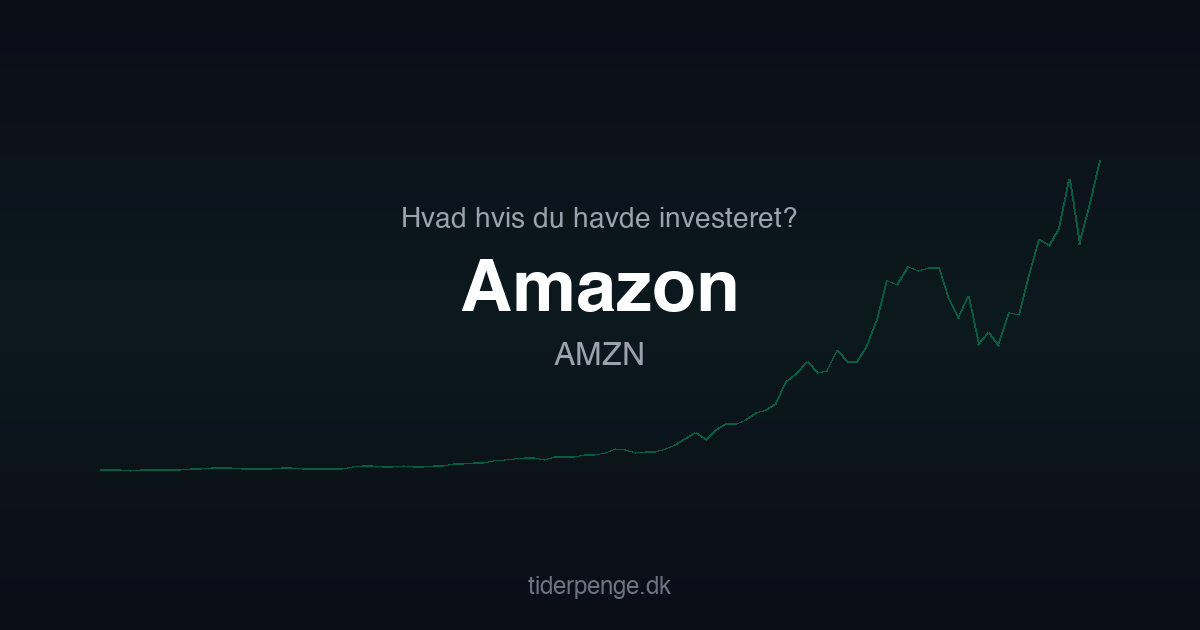
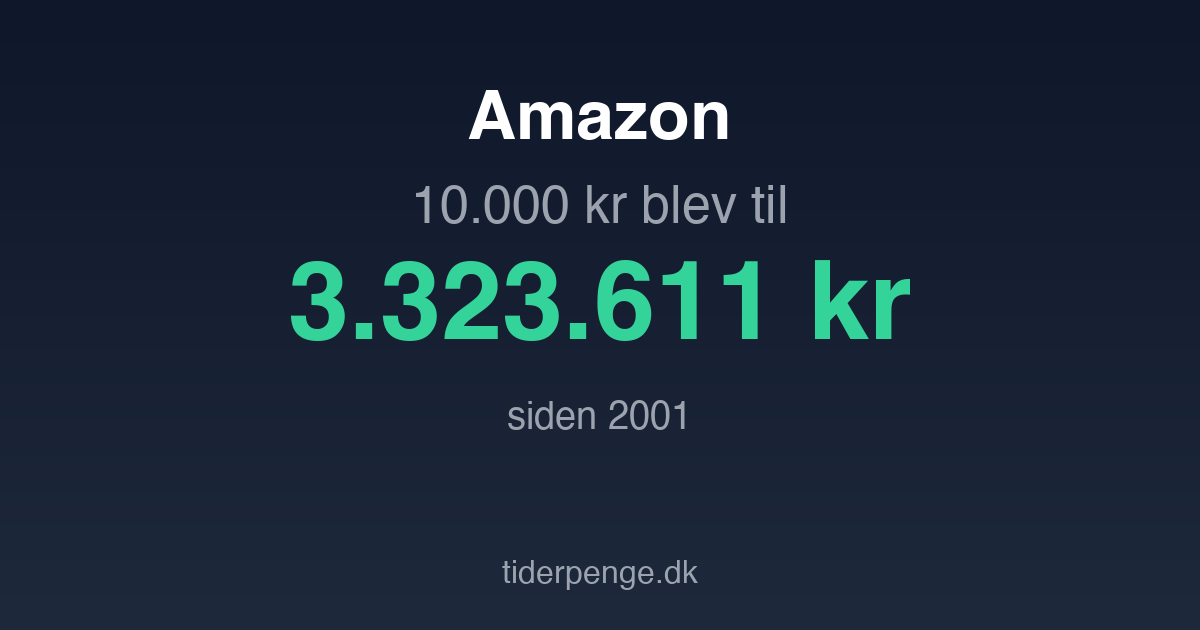
Redesign OG images with shocking return numbers for social sharing
Shows "10.000 kr blev til X kr" with actual calculated returns per stock.
Dark gradient background, emerald highlight on the big number. Adds homepage
OG image with brand messaging.

diff --git a/generate_og_images.py b/generate_og_images.py
@@ -1,8 +1,10 @@
-"""Generate OG share images (1200x630) for each stock on tiderpenge.dk."""
+"""Generate OG share images (1200x630) for each stock on tiderpenge.dk.
+Shows SHOCKING return numbers to maximize social media engagement."""
 
 from __future__ import annotations
 
 import json
+from datetime import datetime
 from pathlib import Path
 
 from PIL import Image, ImageDraw, ImageFont
@@ -21,12 +23,14 @@ STOCKS = [
 
 WIDTH = 1200
 HEIGHT = 630
-BG_COLOR = (11, 13, 23)  # #0B0D17
-EMERALD = (16, 185, 129)  # #10B981
-EMERALD_DARK = (8, 92, 64)  # subtler sparkline color
+BASE_INVESTMENT = 10_000
+
+# Brand colors
+BG_START = (15, 23, 42)  # #0f172a dark navy
+BG_END = (30, 41, 59)    # #1e293b slightly lighter
+EMERALD = (52, 211, 153)  # #34D399 bright emerald
 WHITE = (255, 255, 255)
-GRAY = (156, 163, 175)
-BRAND_GRAY = (107, 114, 128)
+GRAY = (156, 163, 175)  # #9CA3AF
 
 BASE_DIR = Path(__file__).parent
 DATA_DIR = BASE_DIR / "public" / "data"
@@ -43,7 +47,6 @@ def load_font(size: int, bold: bool = False) -> ImageFont.FreeTypeFont | ImageFo
     for path in font_paths:
         if Path(path).exists():
             try:
-                # .ttc files may have multiple faces; index 0 is regular, 1 is bold
                 if path.endswith(".ttc"):
                     index = 1 if bold else 0
                     return ImageFont.truetype(path, size, index=index)
@@ -53,129 +56,170 @@ def load_font(size: int, bold: bool = False) -> ImageFont.FreeTypeFont | ImageFo
     return ImageFont.load_default()
 
 
-def load_prices(ticker: str) -> list[float]:
+def load_stock_data(ticker: str) -> dict:
     path = DATA_DIR / f"{ticker}.json"
     if not path.exists():
-        return []
-    data = json.loads(path.read_text())
-    if not isinstance(data, dict) or "prices" not in data:
-        return []
-    return [float(p["close"]) for p in data["prices"] if isinstance(p, dict) and "close" in p]
+        return {}
+    return json.loads(path.read_text())
 
 
-def sample_points(prices: list[float], n: int = 100) -> list[float]:
-    if len(prices) <= n:
-        return prices
-    step = len(prices) / n
-    return [prices[int(i * step)] for i in range(n)]
+def format_kr(amount: int) -> str:
+    """Format as Danish currency: 362.000 kr"""
+    return f"{amount:,} kr".replace(',', '.')
 
 
-def draw_sparkline(draw: ImageDraw.ImageDraw, prices: list[float]) -> None:
-    if len(prices) < 2:
-        return
+def calculate_best_return(data: dict) -> tuple[int, str, int]:
+    """Calculate most impressive return period.
+    Returns: (final_amount, period_text, years)"""
+    if not data or "prices" not in data or not data["prices"]:
+        return 0, "siden start", 0
 
-    points = sample_points(prices)
-    min_p, max_p = min(points), max(points)
-    price_range = max_p - min_p if max_p != min_p else 1.0
+    prices = data["prices"]
+    latest_price = float(prices[-1]["close"])
+    start_date = datetime.strptime(prices[0]["date"], "%Y-%m-%d")
+    latest_date = datetime.strptime(prices[-1]["date"], "%Y-%m-%d")
+    total_years = (latest_date - start_date).days / 365.25
 
-    # Sparkline region: centered horizontally with padding, vertical middle area
-    margin_x = 100
-    margin_top = 160
-    margin_bottom = 160
-    chart_w = WIDTH - 2 * margin_x
-    chart_h = HEIGHT - margin_top - margin_bottom
+    # Calculate total return from start
+    start_price = float(prices[0]["close"])
+    total_return = int((latest_price / start_price) * BASE_INVESTMENT)
 
-    coords: list[tuple[float, float]] = []
-    for i, p in enumerate(points):
-        x = margin_x + (i / (len(points) - 1)) * chart_w
-        y = margin_top + chart_h - ((p - min_p) / price_range) * chart_h
-        coords.append((x, y))
+    # Try 10-year return if data allows
+    ten_year_return = None
+    if total_years >= 10:
+        ten_year_ago = latest_date.replace(year=latest_date.year - 10)
+        for price in prices:
+            price_date = datetime.strptime(price["date"], "%Y-%m-%d")
+            if abs((price_date - ten_year_ago).days) < 180:  # Within 6 months
+                ten_year_price = float(price["close"])
+                ten_year_return = int((latest_price / ten_year_price) * BASE_INVESTMENT)
+                break
 
-    # Draw the line in a darker emerald for a subtle background effect
-    for i in range(len(coords) - 1):
-        draw.line([coords[i], coords[i + 1]], fill=EMERALD_DARK, width=2)
+    # Pick most impressive period
+    if ten_year_return and ten_year_return > total_return * 0.7:
+        return ten_year_return, "over 10 år", 10
+    elif total_years >= 15:
+        year = start_date.year
+        return total_return, f"siden {year}", int(total_years)
+    else:
+        years = int(total_years)
+        return total_return, f"over {years} år", years
 
 
-def draw_gradient_overlay(img: Image.Image) -> None:
-    """Draw a subtle emerald gradient overlay on the dark background."""
-    overlay = Image.new("RGBA", (WIDTH, HEIGHT), (0, 0, 0, 0))
-    draw = ImageDraw.Draw(overlay)
+def create_gradient_bg() -> Image.Image:
+    """Create dark navy gradient background"""
+    img = Image.new("RGB", (WIDTH, HEIGHT))
+    draw = ImageDraw.Draw(img)
 
-    # Radial-ish gradient: horizontal bands with emerald tint fading from center
     for y in range(HEIGHT):
-        # Peak intensity around vertical center
-        dist = abs(y - HEIGHT // 2) / (HEIGHT // 2)
-        alpha = int(18 * (1 - dist))  # max alpha 18 for subtlety
-        if alpha > 0:
-            draw.line([(0, y), (WIDTH, y)], fill=(16, 185, 129, alpha))
+        ratio = y / HEIGHT
+        r = int(BG_START[0] + (BG_END[0] - BG_START[0]) * ratio)
+        g = int(BG_START[1] + (BG_END[1] - BG_START[1]) * ratio)
+        b = int(BG_START[2] + (BG_END[2] - BG_START[2]) * ratio)
+        draw.line([(0, y), (WIDTH, y)], fill=(r, g, b))
 
-    img.paste(Image.alpha_composite(img.convert("RGBA"), overlay).convert("RGB"))
+    return img
 
 
-def generate_image(stock: dict) -> None:
+def generate_stock_image(stock: dict) -> None:
     ticker = stock["ticker"]
     name = stock["name"]
     slug = stock["slug"]
 
-    img = Image.new("RGB", (WIDTH, HEIGHT), BG_COLOR)
-    draw_gradient_overlay(img)
+    # Load data and calculate return
+    data = load_stock_data(ticker)
+    final_amount, period_text, years = calculate_best_return(data)
+
+    # Create base image
+    img = create_gradient_bg()
     draw = ImageDraw.Draw(img)
 
-    # Load price data and draw sparkline behind text
-    prices = load_prices(ticker)
-    if prices:
-        draw_sparkline(draw, prices)
-
     # Fonts
-    font_name = load_font(72, bold=True)
-    font_ticker = load_font(32, bold=False)
-    font_subtitle = load_font(28, bold=False)
-    font_brand = load_font(24, bold=False)
+    font_huge = load_font(110, bold=True)    # Final amount
+    font_large = load_font(68, bold=True)     # Stock name
+    font_medium = load_font(52, bold=False)   # Start amount
+    font_small = load_font(38, bold=False)    # Period
+    font_brand = load_font(32, bold=False)    # Brand
 
-    # Stock name — centered
-    name_bbox = draw.textbbox((0, 0), name, font=font_name)
-    name_w = name_bbox[2] - name_bbox[0]
-    name_x = (WIDTH - name_w) // 2
-    name_y = HEIGHT // 2 - 60
-    draw.text((name_x, name_y), name, fill=WHITE, font=font_name)
+    # Layout positions (vertical centering)
+    y = 90
 
-    # Ticker — centered below name
-    ticker_bbox = draw.textbbox((0, 0), ticker, font=font_ticker)
-    ticker_w = ticker_bbox[2] - ticker_bbox[0]
-    ticker_x = (WIDTH - ticker_w) // 2
-    ticker_y = name_y + 85
-    draw.text((ticker_x, ticker_y), ticker, fill=GRAY, font=font_ticker)
+    # Stock name at top
+    draw.text((WIDTH // 2, y), name, fill=WHITE, font=font_large, anchor="mt")
+    y += 95
 
-    # Subtitle — above name
-    subtitle = "Hvad hvis du havde investeret?"
-    sub_bbox = draw.textbbox((0, 0), subtitle, font=font_subtitle)
-    sub_w = sub_bbox[2] - sub_bbox[0]
-    sub_x = (WIDTH - sub_w) // 2
-    sub_y = name_y - 50
-    draw.text((sub_x, sub_y), subtitle, fill=GRAY, font=font_subtitle)
+    # "10.000 kr blev til"
+    start_text = format_kr(BASE_INVESTMENT) + " blev til"
+    draw.text((WIDTH // 2, y), start_text, fill=GRAY, font=font_medium, anchor="mt")
+    y += 75
 
-    # Brand — bottom center
-    brand = "tiderpenge.dk"
-    brand_bbox = draw.textbbox((0, 0), brand, font=font_brand)
-    brand_w = brand_bbox[2] - brand_bbox[0]
-    brand_x = (WIDTH - brand_w) // 2
-    brand_y = HEIGHT - 55
-    draw.text((brand_x, brand_y), brand, fill=BRAND_GRAY, font=font_brand)
+    # HUGE final amount in emerald
+    final_text = format_kr(final_amount)
+    draw.text((WIDTH // 2, y), final_text, fill=EMERALD, font=font_huge, anchor="mt")
+    y += 140
+
+    # Period text
+    draw.text((WIDTH // 2, y), period_text, fill=GRAY, font=font_small, anchor="mt")
+
+    # Brand at bottom
+    brand_y = HEIGHT - 70
+    draw.text((WIDTH // 2, brand_y), "tiderpenge.dk", fill=GRAY, font=font_brand, anchor="mt")
 
     # Save
     out_path = OUTPUT_DIR / f"{slug}.png"
-    img.save(out_path, "PNG")
-    print(f"  {out_path.relative_to(BASE_DIR)}")
+    img.save(out_path, "PNG", optimize=True)
+    print(f"  {name}: {final_text} {period_text}")
+
+
+def generate_homepage_image() -> None:
+    """Generate generic OG image for homepage"""
+    img = create_gradient_bg()
+    draw = ImageDraw.Draw(img)
+
+    font_huge = load_font(90, bold=True)
+    font_large = load_font(58, bold=False)
+    font_medium = load_font(44, bold=False)
+    font_small = load_font(32, bold=False)
+
+    y = 140
+
+    # Main headline
+    draw.text((WIDTH // 2, y), "Tid er penge", fill=WHITE, font=font_huge, anchor="mt")
+    y += 120
+
+    # Subtitle in emerald
+    draw.text((WIDTH // 2, y), "Hvad hvis du havde investeret?",
+              fill=EMERALD, font=font_large, anchor="mt")
+    y += 90
+
+    # Description
+    draw.text((WIDTH // 2, y), "Se hvad dine penge kunne være blevet til",
+              fill=GRAY, font=font_medium, anchor="mt")
+    y += 70
+
+    # Examples
+    draw.text((WIDTH // 2, y), "Novo Nordisk • Apple • NVIDIA • Amazon",
+              fill=GRAY, font=font_small, anchor="mt")
+
+    # Brand
+    draw.text((WIDTH // 2, HEIGHT - 70), "tiderpenge.dk", fill=GRAY, font=font_small, anchor="mt")
+
+    # Save
+    out_path = BASE_DIR / "public" / "og-image.png"
+    img.save(out_path, "PNG", optimize=True)
+    print(f"  Homepage: {out_path.name}")
 
 
 def main() -> None:
     OUTPUT_DIR.mkdir(parents=True, exist_ok=True)
-    print(f"Generating {len(STOCKS)} OG images...")
+    print(f"Generating OG images with shocking return numbers...\n")
 
     for stock in STOCKS:
-        generate_image(stock)
+        generate_stock_image(stock)
 
-    print("Done.")
+    print()
+    generate_homepage_image()
+    print("\nDone!")
 
 
 if __name__ == "__main__":
